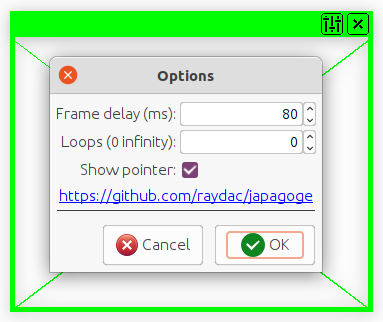
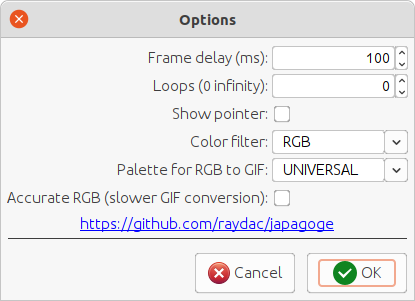
release 2.0.0

diff --git a/README.md b/README.md
@@ -1,4 +1,4 @@
-# Japagoge (APNG screen grabber)
+# Japagoge (APNG-GIF screen grabber)
 
 [![License Apache 2.0](https://img.shields.io/badge/license-Apache%20License%202.0-green.svg)](http://www.apache.org/licenses/LICENSE-2.0)
 [![Java 11+](https://img.shields.io/badge/java-11%2b-green.svg)](https://bell-sw.com/pages/downloads/#/java-11-lts)
@@ -7,9 +7,9 @@
 
 ## Changelog
 
-- 2.0.0 (SNAPSHOT)
+- 2.0.0 (11-sep-2021)
   - improved rendering for mouse pointer
-  - added support of save result as GIF
+  - added support of GIF export
   - added support of color filters recording
 
 - __1.0.1 (01-sep-2021)__
@@ -18,17 +18,21 @@
 - __1.0.0 (30-aug-2021)__
   - initial release
 
-## Preword
+## Pre-word
 
 During writing an article for some online resource, I wanted to make small GIF animations and expected to use Peek
 utility for that. I was badly surprised to detect that the utility doesn't work well in multi-monitor environment.
-Googling didn't help me find any simple working analogue and I decided quickly make some similar application but
-implemented in Java for cross-platform use. Instead of GIF I decided to produce APNG because it supports TrueColor.
+Googling didn't help me find any simple working analogue, so I decided quickly make some similar application but
+implemented in Java for cross-platform use. By default, it grabs into APNG images (Animation PNG records) abd it allows
+save TrueColor (in opposite to Gif which supports only 256 colors). But since 2.0.0 version, conversion into GIF
+allowed, by default it uses AUTO palette based on image statistics. There are some number of predefined palettes which
+are selectable through preferences.
 
 ## How to use the utility?
 
-As the first one you can download its distributive for your OS from the releases page. It requires Java 11+ for work but
-some archives provide bundled JRE.
+You can download its distributive for your OS from [the releases page](https://github.com/raydac/japagoge/releases). It
+requires Java 11+ for work but some archives provide bundled JRE. Keep in mind that it is very tricky to grab mouse
+pointer appearance under Java so grabbed pointer look may differ from your system one.
 
 ### Positioning
 
@@ -45,13 +49,16 @@ will be removed and the window changes its color.
 ![Positioning state](assets/screens/state_recording.png)   
 __To stop recording, you should again make mouse double-click on the window title area.__ After stop of recording you
 will see the save file dialog to save your recorded file, if you press cancel button then the record will be ignored and
-just deleted. I have not implemented any optimization for saved data so that result files can be big.
+just deleted. I have not implemented any optimization for saved data so that result files can be big. If you choose GIF
+file as the result one then conversion will be started, it can take some time and depends on power of your computer.
 
 ### Options
 
 You can tune recording options. For instance disable show of mouse pointer or limit number of loops in the result record
-show. For that you should click the preferences button during positioning mode and you will see the preferences
-dialog.   
+show. For that you should click the preferences button during positioning mode, so you will see the Preferences dialog.
+If you are going to make GIF file as the result one then I would recommend make some sample with different palettes to
+find better result. Flag `Accurate RGB' can increase precision of colors during conversion but increasing spent
+time.    
 ![Positioning state](assets/screens/state_preferences.png)
 
 ### F.A.Q.
@@ -59,3 +66,8 @@ dialog.
 #### How to convert APNG into GIF?
 
 If you work under Ubuntu then you can use `apng2gif` utility to convert file format.
+
+### I have unexpected color artifacts in result GIF
+
+Try change `Palette for RGB to GIF` from AUTO to UNIVERSAL or any other fixed palette, also try turn on
+flag `Accurate RGB`.
